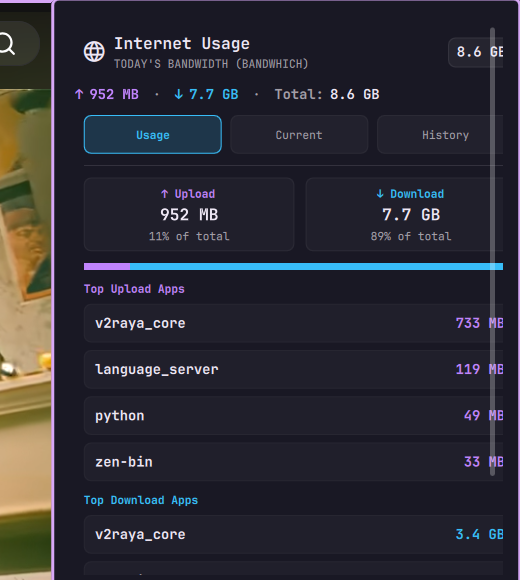
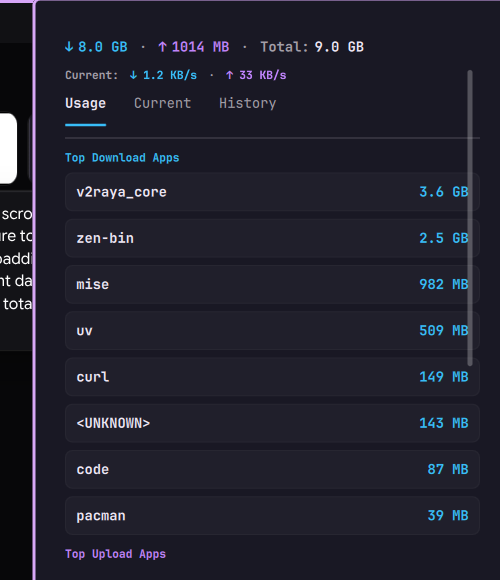
fix: remove redundant total badge, equalize padding, fix scrollbar, and add right-click display mode cycling

diff --git a/Panel.qml b/Panel.qml
@@ -104,8 +104,8 @@ Panel {
     bar: root.bar
     open: root.opened
     focusTarget: keyCatcher
-    contentWidth: panel.fittedContentWidth(Style.space(425))
-    contentHeight: panel.fittedContentHeight(column.implicitHeight + Style.space(24), Style.space(520))
+    contentWidth: panel.fittedContentWidth(Style.space(390))
+    contentHeight: panel.fittedContentHeight(column.implicitHeight, Style.space(520))
 
     PanelKeyCatcher {
       id: keyCatcher
@@ -115,10 +115,6 @@ Panel {
       Flickable {
         id: flick
         anchors.fill: parent
-        anchors.leftMargin: Style.space(12)
-        anchors.topMargin: Style.space(12)
-        anchors.bottomMargin: Style.space(12)
-        anchors.rightMargin: Style.space(18) // dedicated gutter so scrollbar NEVER overlaps content
         contentWidth: width
         contentHeight: column.implicitHeight
         clip: true
@@ -127,23 +123,7 @@ Panel {
         interactive: contentHeight > height
 
         ScrollBar.vertical: ScrollBar {
-          id: vbar
-          parent: panel
-          anchors.top: parent.top
-          anchors.right: parent.right
-          anchors.bottom: parent.bottom
-          anchors.topMargin: Style.space(12)
-          anchors.bottomMargin: Style.space(12)
-          anchors.rightMargin: Style.space(4)
-          policy: flick.contentHeight > flick.height ? ScrollBar.AlwaysOn : ScrollBar.AlwaysOff
-          active: flick.moving || flick.flicking || vbar.hovered
-          interactive: true
-
-          contentItem: Rectangle {
-            implicitWidth: Style.space(4)
-            radius: Style.cornerRadius
-            color: vbar.pressed ? Color.accent : (vbar.hovered ? root.fg : Qt.rgba(1, 1, 1, 0.25))
-          }
+          policy: ScrollBar.AsNeeded
         }
 
         Column {
@@ -151,68 +131,39 @@ Panel {
           width: flick.width
           spacing: Style.space(10)
 
-          // ---------- Header Row ----------
-          Item {
+          // ---------- Header Row (Clean, no redundant total badge) ----------
+          Row {
+            id: titleArea
             width: parent.width
-            implicitHeight: Math.max(titleArea.implicitHeight, totalBadge.implicitHeight)
+            spacing: Style.space(8)
 
-            Row {
-              id: titleArea
-              anchors.left: parent.left
+            Text {
+              text: ""
+              font.family: "Symbols Nerd Font"
+              font.pixelSize: Style.space(22)
+              color: root.fg
               anchors.verticalCenter: parent.verticalCenter
-              spacing: Style.space(8)
-
-              Text {
-                text: ""
-                font.family: "Symbols Nerd Font"
-                font.pixelSize: Style.space(22)
-                color: root.fg
-                anchors.verticalCenter: parent.verticalCenter
-              }
-
-              Column {
-                anchors.verticalCenter: parent.verticalCenter
-                spacing: Style.space(1)
-
-                Text {
-                  textFormat: Text.PlainText
-                  text: "Internet Usage"
-                  color: root.fg
-                  font.family: root.fontFamily
-                  font.pixelSize: Style.font.title
-                  font.bold: true
-                }
-
-                Text {
-                  textFormat: Text.PlainText
-                  text: "TODAY'S BANDWIDTH (BANDWHICH)"
-                  color: root.dimFg
-                  font.family: root.fontFamily
-                  font.pixelSize: Style.font.caption
-                }
-              }
             }
 
-            // Right header badge: Total
-            BorderSurface {
-              id: totalBadge
-              anchors.right: parent.right
+            Column {
               anchors.verticalCenter: parent.verticalCenter
-              implicitWidth: totalBadgeText.implicitWidth + Style.space(16)
-              implicitHeight: Style.space(26)
-              radius: Style.cornerRadius
-              color: Qt.rgba(1, 1, 1, 0.05)
-              borderSpec: Border.flat(Qt.rgba(1, 1, 1, 0.12), Math.max(1, Style.space(1)))
+              spacing: Style.space(1)
 
               Text {
-                id: totalBadgeText
                 textFormat: Text.PlainText
-                anchors.centerIn: parent
-                text: Model.formatBytes(root.todayTotal)
+                text: "Internet Usage"
                 color: root.fg
                 font.family: root.fontFamily
-                font.pixelSize: Style.font.body
+                font.pixelSize: Style.font.title
                 font.bold: true
+              }
+
+              Text {
+                textFormat: Text.PlainText
+                text: "TODAY'S BANDWIDTH (BANDWHICH)"
+                color: root.dimFg
+                font.family: root.fontFamily
+                font.pixelSize: Style.font.caption
               }
             }
           }
@@ -609,7 +560,7 @@ Panel {
                     anchors.left: parent.left
                     anchors.right: parent.right
                     anchors.leftMargin: Style.space(10)
-                    anchors.rightMargin: Style.space(10)
+                    anchors.rightMargin: Style.space(12)
                     anchors.verticalCenter: parent.verticalCenter
                     height: dNameText.implicitHeight
 
@@ -673,7 +624,7 @@ Panel {
                     anchors.left: parent.left
                     anchors.right: parent.right
                     anchors.leftMargin: Style.space(10)
-                    anchors.rightMargin: Style.space(10)
+                    anchors.rightMargin: Style.space(12)
                     anchors.verticalCenter: parent.verticalCenter
                     height: nameText.implicitHeight
 
@@ -782,7 +733,7 @@ Panel {
                   anchors.left: parent.left
                   anchors.right: parent.right
                   anchors.leftMargin: Style.space(10)
-                  anchors.rightMargin: Style.space(10)
+                  anchors.rightMargin: Style.space(12)
                   anchors.verticalCenter: parent.verticalCenter
                   height: curName.implicitHeight
 
@@ -915,7 +866,7 @@ Panel {
                   anchors.left: parent.left
                   anchors.right: parent.right
                   anchors.leftMargin: Style.space(10)
-                  anchors.rightMargin: Style.space(10)
+                  anchors.rightMargin: Style.space(12)
                   anchors.verticalCenter: parent.verticalCenter
                   height: dayDateText.implicitHeight
 

diff --git a/BarWidget.qml b/BarWidget.qml
@@ -14,10 +14,24 @@ BarWidget {
   readonly property string markGlyph: ""
 
   readonly property double todayTotal: panel ? panel.todayTotal : 0
+  readonly property double currentDownBps: panel ? panel.currentDownBps : 0
+  readonly property double currentUpBps: panel ? panel.currentUpBps : 0
   readonly property string status: panel ? panel.status : "ok"
+
+  // 0: Total data for the day
+  // 1: Current data download speed
+  // 2: Current data upload speed
+  property int displayMode: 0
+
   readonly property string pillText: {
     if (root.status === "error") return root.markGlyph + " !"
-    return root.markGlyph + " " + Model.formatBytes(root.todayTotal)
+    if (root.displayMode === 1) {
+      return root.markGlyph + " ↓ " + Model.formatSpeed(root.currentDownBps)
+    } else if (root.displayMode === 2) {
+      return root.markGlyph + " ↑ " + Model.formatSpeed(root.currentUpBps)
+    } else {
+      return root.markGlyph + " " + Model.formatBytes(root.todayTotal)
+    }
   }
 
   // Panel routing contract
@@ -75,12 +89,19 @@ BarWidget {
     hasVisualContent: text !== ""
     tooltipText: panel && panel.status === "error"
       ? (panel.errorMessage || (panel.errorType === "not_installed" ? "bandwhich is not installed (sudo pacman -S bandwhich)" : "bandwhich permission required"))
-      : "Internet Usage Today: " + Model.formatBytes(root.todayTotal)
-        + (panel ? " (↓ " + Model.formatBytes(panel.todayDown) + "  ↑ " + Model.formatBytes(panel.todayUp) + ")" : "")
-        + (panel && panel.currentTotalBps > 0 ? " · " + Model.formatSpeed(panel.currentTotalBps) : "")
+      : (root.displayMode === 0 ? "Total Today: " + Model.formatBytes(root.todayTotal)
+          : (root.displayMode === 1 ? "Download Speed: " + Model.formatSpeed(root.currentDownBps)
+             : "Upload Speed: " + Model.formatSpeed(root.currentUpBps)))
+        + " (Right-click to cycle)\n"
+        + "Today: ↓ " + Model.formatBytes(panel ? panel.todayDown : 0) + "  ↑ " + Model.formatBytes(panel ? panel.todayUp : 0) + "\n"
+        + "Live: ↓ " + Model.formatSpeed(root.currentDownBps) + "  ↑ " + Model.formatSpeed(root.currentUpBps)
 
     onPressed: function(b) {
-      root.togglePanel()
+      if (b === Qt.RightButton) {
+        root.displayMode = (root.displayMode + 1) % 3
+      } else {
+        root.togglePanel()
+      }
     }
   }
 }
